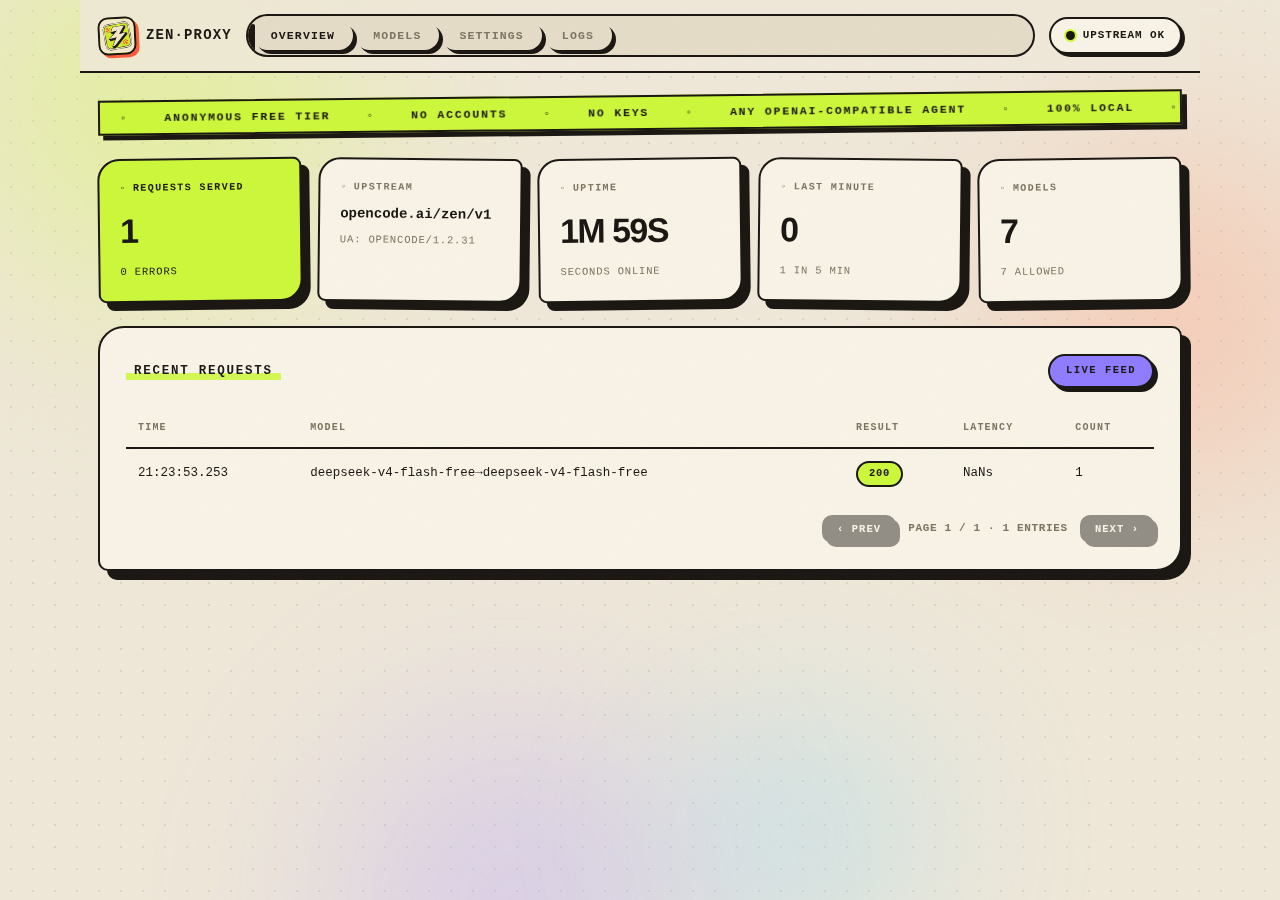
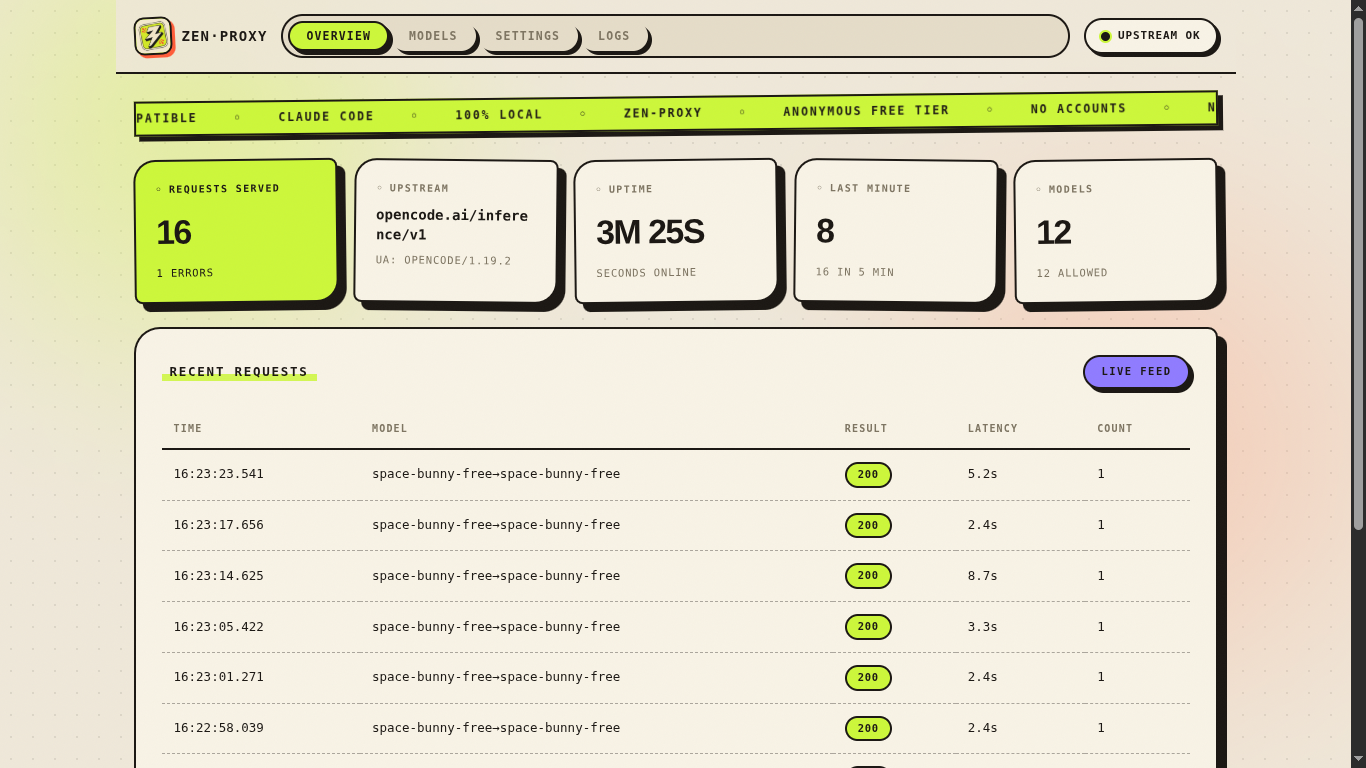
Give Claude Code and OpenAI-compatible agents equal billing in the README
The old "Start here" opened with a Claude Code heading whose first code block
had the curl install and the launch command jammed together on adjacent lines,
with the Windows equivalent buried in a trailing comment. It read as though
installing and running were one step for Claude Code users, while everyone else
got a settings table with no mention of how to start the proxy at all.

Now install is its own step, stated once and identical for everyone, and the
two paths below it are peers rather than a headline and a footnote:

- Install: one block per shell, no inline platform comments
- Claude Code: `zen-claude`, same command on all three platforms
- Any OpenAI-compatible agent: base URL, key, model, plus a health check to
  confirm the proxy is actually up before pointing an agent at it

Both subsections use the same shape — one command or one table, then a single
sentence — so neither reads as the secondary path. `zen-proxy` stays available
folded away for people who want the proxy to outlive one agent session.

Also replaces the headerless settings table, which rendered as an empty row.

189 tests pass.

diff --git a/README.md b/README.md
@@ -16,39 +16,58 @@
 
 ## Start here
 
+### Install
+
+```bash
+curl -fsSL https://raw.githubusercontent.com/12errh/zen-proxy/main/install.sh | bash
+```
+
+```powershell
+irm https://raw.githubusercontent.com/12errh/zen-proxy/main/install.ps1 | iex
+```
+
+<sub>That is the entire installation — no account, no API key, no `npm install`. Now pick your agent below.</sub>
+
+---
+
 ### Claude Code
 
 ```bash
-curl -fsSL https://raw.githubusercontent.com/12errh/zen-proxy/main/install.sh | bash   # Windows: irm https://raw.githubusercontent.com/12errh/zen-proxy/main/install.ps1 | iex
 zen-claude
 ```
 
-One command. It starts the proxy, loads every live free Zen model into Claude Code's `/model` picker, runs Claude Code, and shuts the proxy down when you exit. Same on Linux, macOS and Windows. Your existing Claude Code config is never touched.
+<sub>Identical on Linux, macOS and Windows.</sub>
 
-### Any other agent
+It starts the proxy if it is not already running, loads every live free Zen model into Claude Code's `/model` picker, runs Claude Code, and stops the proxy again when you exit. Your existing Claude Code config is never touched.
 
-Cline, Roo Code, Continue, Aider, mimo, opencode forks, anything with a `baseURL`:
+---
+
+### Any OpenAI-compatible agent
+
+<sub>Cline, Roo Code, Continue, Aider, mimo, opencode forks — anything with a `baseURL` setting.</sub>
 
 | Setting | Value |
 |---|---|
 | Base URL | `http://127.0.0.1:8787/v1` |
 | API key | `public` |
-| Model | anything from [`GET /v1/models`](http://127.0.0.1:8787/v1/models) |
+| Model | anything from `GET /v1/models` |
 
-<details>
-<summary>Start the proxy yourself instead</summary>
-
-```bash
-zen-proxy            # http://127.0.0.1:8787, with a dashboard at /
-```
-</details>
-
-### Check it works
+Confirm the proxy is up:
 
 ```bash
 curl -s http://127.0.0.1:8787/health
 # {"ok":true,"upstream":"https://opencode.ai/inference/v1"}
 ```
+
+<details>
+<summary>Run the proxy yourself</summary>
+
+```bash
+zen-proxy     # http://127.0.0.1:8787 — dashboard at /
+```
+
+It stays up until you stop it, so you point your agent at it once and keep using it. `zen-claude` does this for you and cleans up after.
+</details>
 
 ---
 
